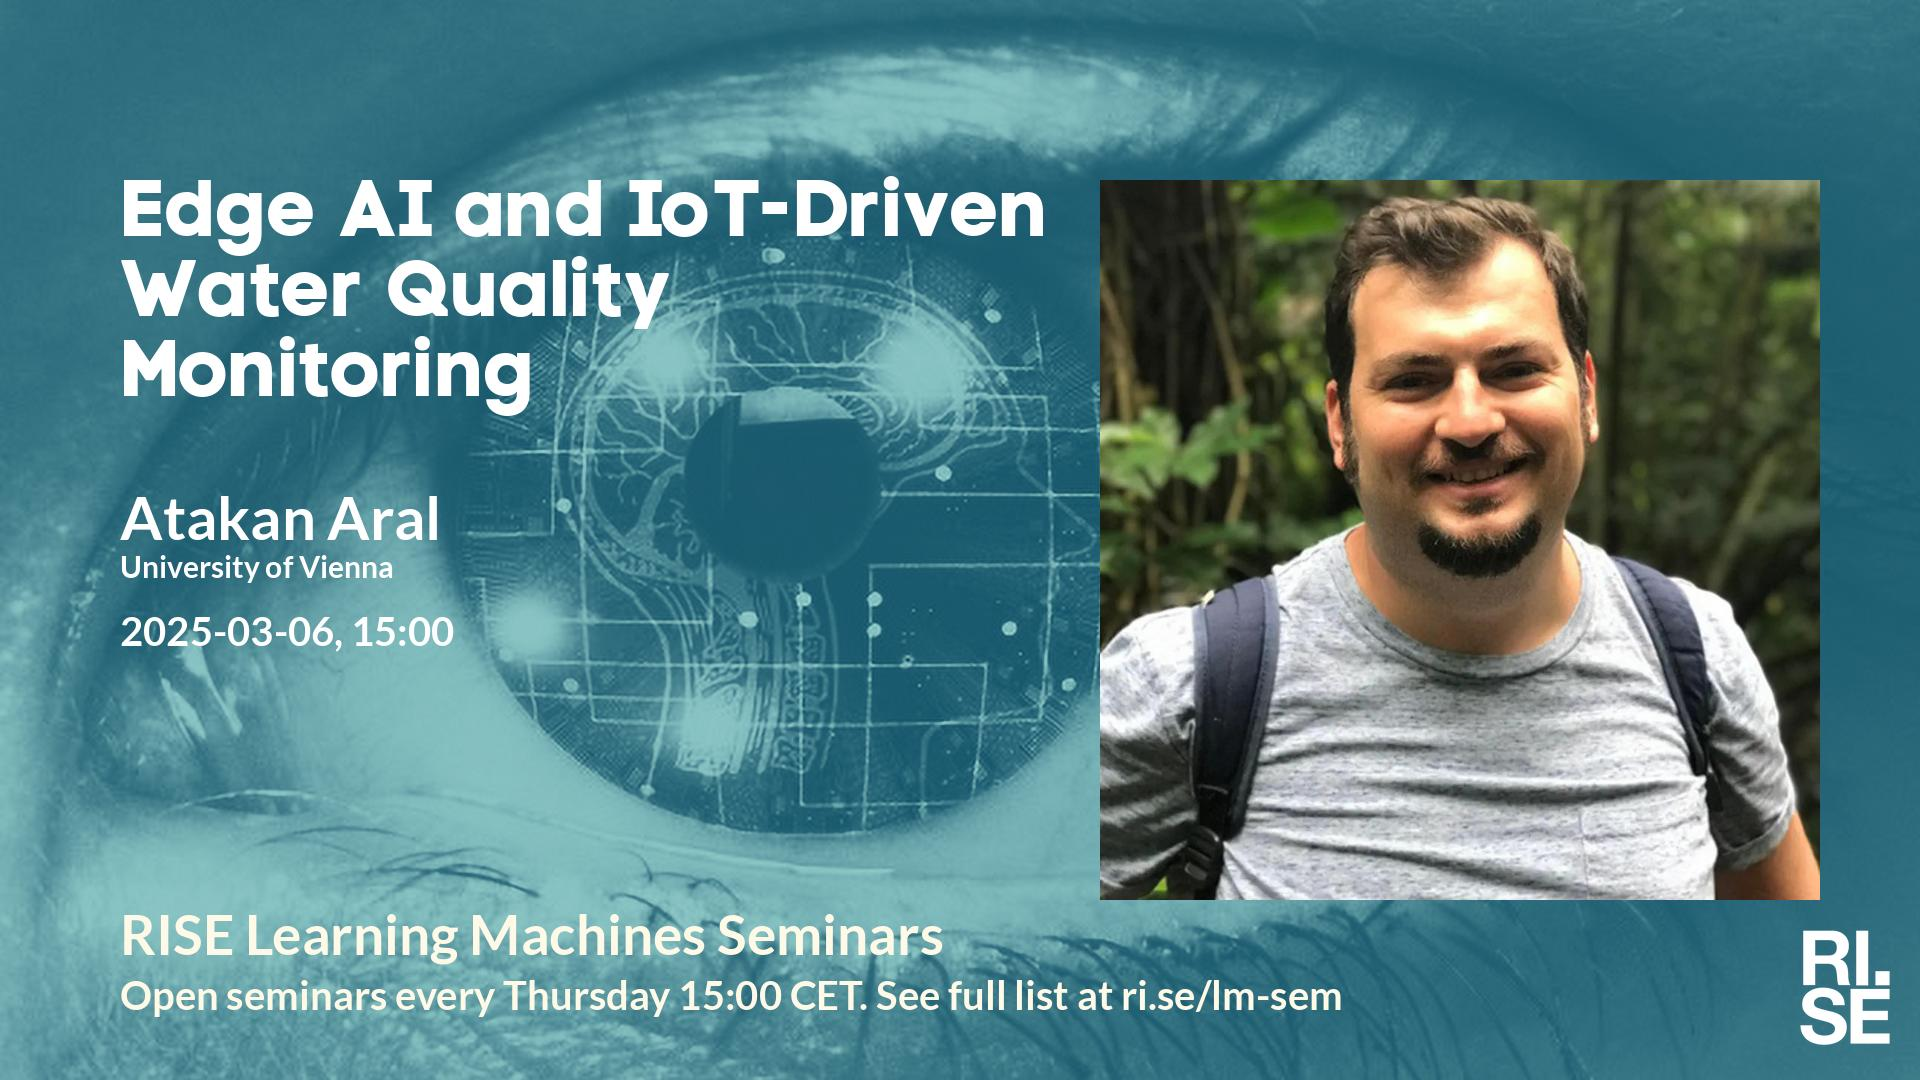
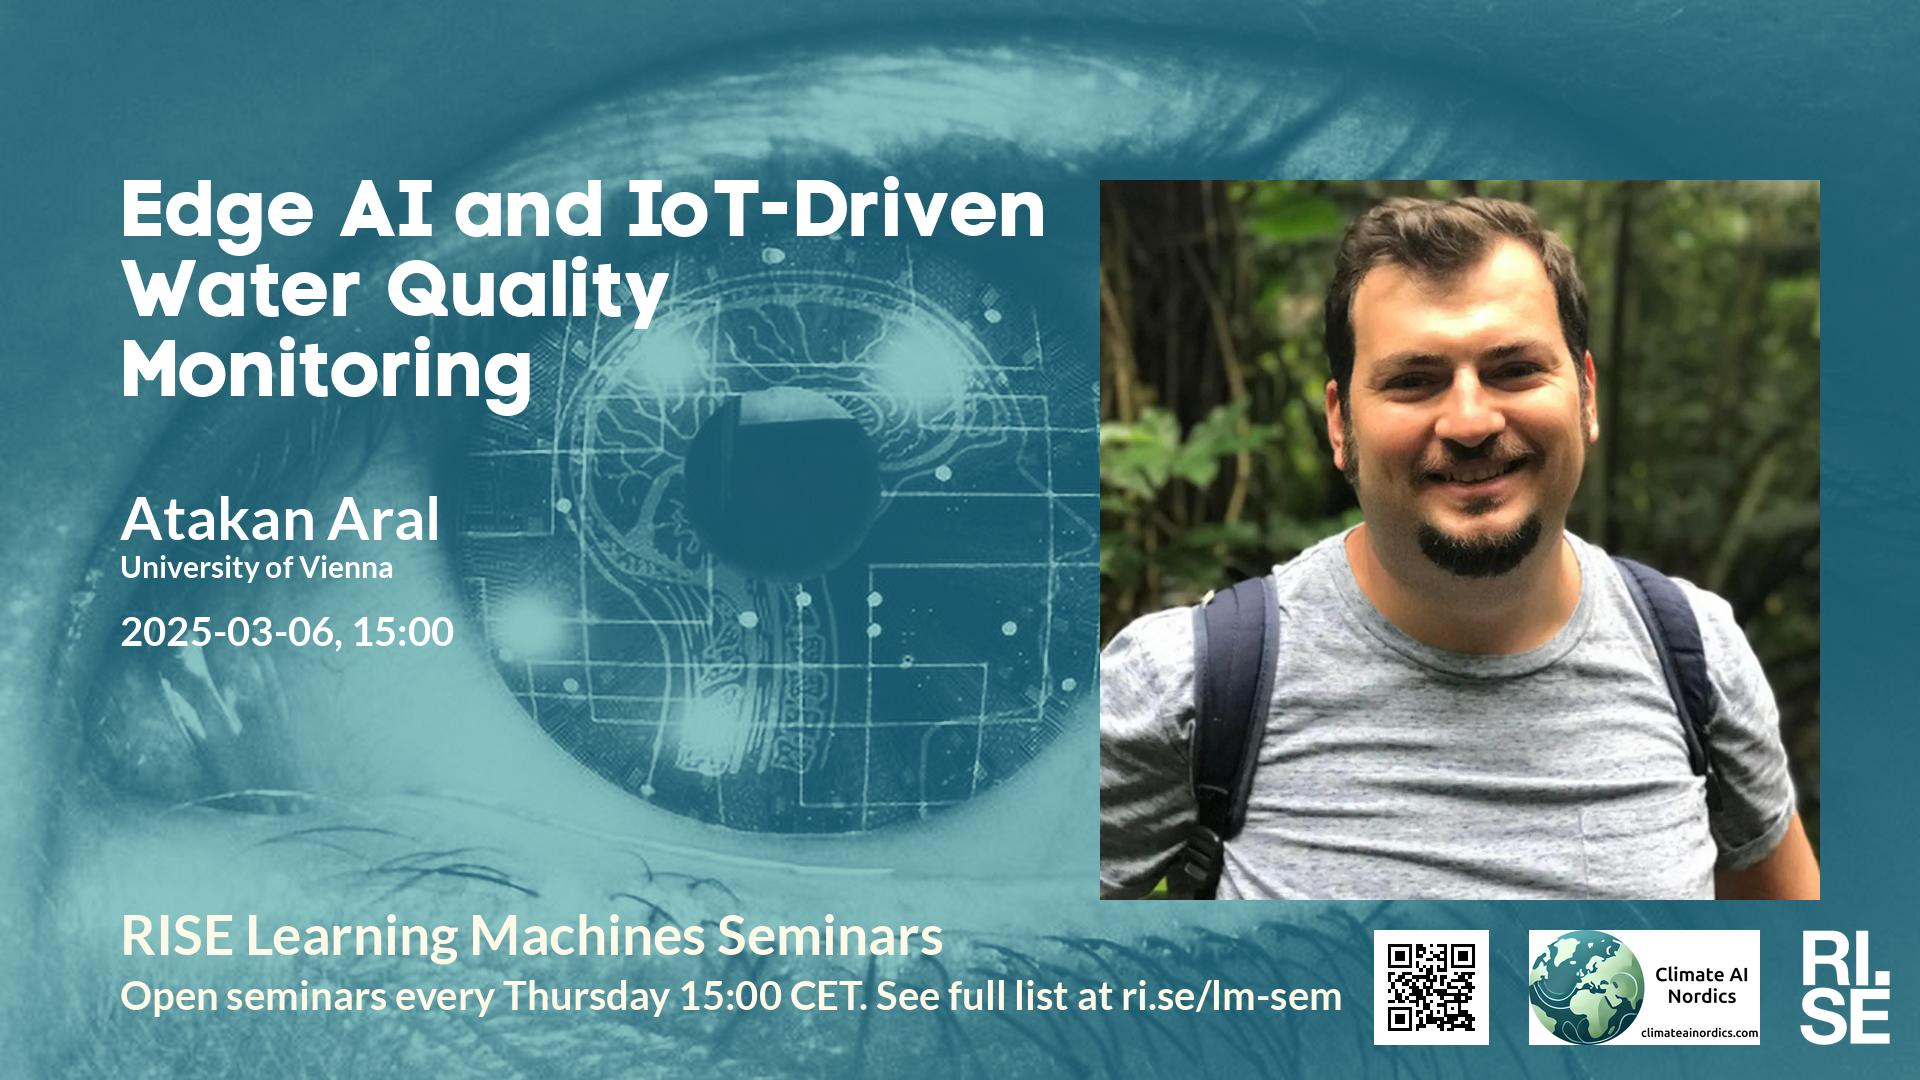
Updated plan on web site.

Changed region(s): [[0.7188, 0.8556, 0.9375, 0.9778]]

diff --git a/lm/2025-03-06.md b/lm/2025-03-06.md
@@ -5,6 +5,8 @@ metatags: "<meta name=\"robots\" content=\"noindex,nofollow\" />"
  
 Welcome to this week's Learning Machines seminar.
 
+This seminar is a collaboration between RISE and Climate AI Nordics -- [climateainordics.com](https://climateainordics.com/).
+
 **Title:** Edge AI and IoT-Driven Water Quality Monitoring
 
 **Speaker:** Atakan Aral, University of Vienna
